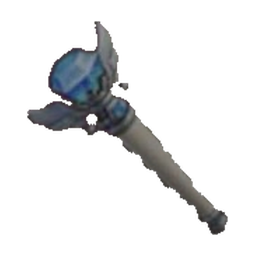
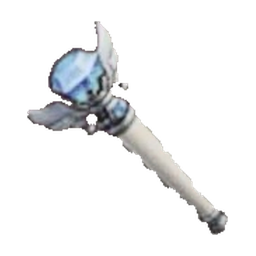
Restore legendary ring band and brighten all six P4 items to white

Changed region(s): [[0.0938, 0.0625, 0.9062, 0.9062]]

diff --git a/src/app.js b/src/app.js
@@ -22,7 +22,7 @@ D.gearLevels=GEAR_VISUAL_LEVELS.map(level=>level.label);
 const state={from:D.furnace.findIndex(x=>x.id==="FC6"),to:D.furnace.findIndex(x=>x.id==="FC8"),scope:"furnace",gear:{},selectedGear:null,troop:"infantry",techStart:"steel",techTarget:"helios",t12:[0,0,0,0]};
 // Proportions mesurées sur la capture P5 ; limites alpha des 48 assets.
 const GEAR_ART_TARGETS={"headgear":[0.65816,0.77436,0.46173,0.48974],"watch":[0.78462,0.71795,0.49487,0.50769],"coat":[0.75,0.7641,0.49235,0.5],"pants":[0.76531,0.7602,0.4949,0.49745],"ring":[0.70256,0.77551,0.51026,0.5],"cane":[0.69388,0.70918,0.5102,0.50765]};
-const GEAR_ART_BOUNDS={"generated/cane":[512,512,33,23,476,462],"generated/coat":[512,512,21,43,491,469],"generated/helmet":[512,512,72,21,440,491],"generated/pants":[512,512,69,63,434,422],"generated/ring":[512,512,101,115,388,409],"generated/watch":[1254,1254,64,49,1173,1190],"epique/cane":[256,256,20,23,236,232],"epique/coat":[256,256,20,28,236,227],"epique/headgear":[256,256,40,20,216,236],"epique/pants":[256,256,31,20,224,236],"epique/ring":[256,256,21,20,235,236],"epique/watch":[256,256,20,20,236,236],"legendaire/cane":[256,256,21,20,235,236],"legendaire/coat":[256,256,20,24,236,231],"legendaire/headgear":[256,256,47,20,208,236],"legendaire/pants":[256,256,20,24,236,231],"legendaire/ring":[256,256,20,21,236,235],"legendaire/watch":[256,256,20,26,236,230],"mythique/cane":[256,256,20,21,236,234],"mythique/coat":[256,256,20,27,236,229],"mythique/headgear":[256,256,47,20,208,236],"mythique/pants":[256,256,22,20,234,236],"mythique/ring":[256,256,20,20,236,235],"mythique/watch":[256,256,20,22,236,233],"p4/cane":[256,256,27,21,228,235],"p4/coat":[256,256,23,21,233,235],"p4/headgear":[256,256,34,21,221,235],"p4/pants":[256,256,28,21,228,235],"p4/ring":[256,256,26,21,230,235],"p4/watch":[256,256,21,25,235,230],"p5-p6/cane":[256,256,23,21,232,235],"p5-p6/coat":[256,256,22,21,233,235],"p5-p6/headgear":[256,256,36,21,219,235],"p5-p6/pants":[256,256,21,21,235,234],"p5-p6/ring":[256,256,31,21,224,235],"p5-p6/watch":[256,256,21,30,235,226],"peu-commun/cane":[256,256,22,20,233,236],"peu-commun/coat":[256,256,20,24,236,231],"peu-commun/headgear":[256,256,32,20,223,236],"peu-commun/pants":[256,256,33,20,223,236],"peu-commun/ring":[256,256,20,24,236,231],"peu-commun/watch":[256,256,22,20,234,236],"rare/cane":[256,256,20,24,236,232],"rare/coat":[256,256,20,24,236,232],"rare/headgear":[256,256,31,20,224,236],"rare/pants":[256,256,23,20,232,236],"rare/ring":[256,256,20,26,236,229],"rare/watch":[256,256,20,27,236,229]};
+const GEAR_ART_BOUNDS={"generated/cane":[512,512,33,23,476,462],"generated/coat":[512,512,21,43,491,469],"generated/helmet":[512,512,72,21,440,491],"generated/pants":[512,512,69,63,434,422],"generated/ring":[512,512,101,115,388,409],"generated/watch":[1254,1254,64,49,1173,1190],"epique/cane":[256,256,20,23,236,232],"epique/coat":[256,256,20,28,236,227],"epique/headgear":[256,256,40,20,216,236],"epique/pants":[256,256,31,20,224,236],"epique/ring":[256,256,21,20,235,236],"epique/watch":[256,256,20,20,236,236],"legendaire/cane":[256,256,21,20,235,236],"legendaire/coat":[256,256,20,24,236,231],"legendaire/headgear":[256,256,47,20,208,236],"legendaire/pants":[256,256,20,24,236,231],"legendaire/ring":[256,256,24,22,233,231],"legendaire/watch":[256,256,20,26,236,230],"mythique/cane":[256,256,20,21,236,234],"mythique/coat":[256,256,20,27,236,229],"mythique/headgear":[256,256,47,20,208,236],"mythique/pants":[256,256,22,20,234,236],"mythique/ring":[256,256,20,20,236,235],"mythique/watch":[256,256,20,22,236,233],"p4/cane":[256,256,27,21,228,235],"p4/coat":[256,256,23,21,233,235],"p4/headgear":[256,256,34,21,221,235],"p4/pants":[256,256,28,21,228,235],"p4/ring":[256,256,26,21,230,235],"p4/watch":[256,256,21,25,235,230],"p5-p6/cane":[256,256,23,21,232,235],"p5-p6/coat":[256,256,22,21,233,235],"p5-p6/headgear":[256,256,36,21,219,235],"p5-p6/pants":[256,256,21,21,235,234],"p5-p6/ring":[256,256,31,21,224,235],"p5-p6/watch":[256,256,21,30,235,226],"peu-commun/cane":[256,256,22,20,233,236],"peu-commun/coat":[256,256,20,24,236,231],"peu-commun/headgear":[256,256,32,20,223,236],"peu-commun/pants":[256,256,33,20,223,236],"peu-commun/ring":[256,256,20,24,236,231],"peu-commun/watch":[256,256,22,20,234,236],"rare/cane":[256,256,20,24,236,232],"rare/coat":[256,256,20,24,236,232],"rare/headgear":[256,256,31,20,224,236],"rare/pants":[256,256,23,20,232,236],"rare/ring":[256,256,20,26,236,229],"rare/watch":[256,256,20,27,236,229]};
 function gearArtworkStyle(key,slot){
   const bounds=GEAR_ART_BOUNDS[key],target=GEAR_ART_TARGETS[slot];
   if(!bounds||!target)return '';
@@ -32,7 +32,7 @@ function gearArtworkStyle(key,slot){
 }
 function gearSkin(g){return `<img class="gear-skin-p6" style="${gearArtworkStyle('generated/'+g.id,g.id==='helmet'?'headgear':g.id)}" src="assets/generated/gear-p6/${g.id}.png" alt="">`}
 function gearVisualData(level){return GEAR_VISUAL_LEVELS[Math.max(0,Math.min(GEAR_VISUAL_LEVELS.length-1,level))]}
-function gearLevelSkin(g,level){const visual=gearVisualData(level),slot=g.id==='helmet'?'headgear':g.id;return `<img class="gear-level-skin gear-visual-${visual.skin}" style="${gearArtworkStyle(visual.skin+'/'+slot,slot)}" src="assets/visuals/gear-levels/${visual.skin}/${slot}.png?v=${['p4','p5-p6'].includes(visual.skin)?'20261006-p4-p5-cutouts':'5'}" alt="">`}
+function gearLevelSkin(g,level){const visual=gearVisualData(level),slot=g.id==='helmet'?'headgear':g.id;return `<img class="gear-level-skin gear-visual-${visual.skin}" style="${gearArtworkStyle(visual.skin+'/'+slot,slot)}" src="assets/visuals/gear-levels/${visual.skin}/${slot}.png?v=${visual.skin==='p4'||(visual.skin==='legendaire'&&slot==='ring')?'20261006-p4-white-ring-repair':visual.skin==='p5-p6'?'20261006-p4-p5-cutouts':'5'}" alt="">`}
 const $=(s,p=document)=>p.querySelector(s),$$=(s,p=document)=>[...p.querySelectorAll(s)],fmt=n=>new Intl.NumberFormat("fr-FR",{maximumFractionDigits:1}).format(n);
 function go(id){$$('.view').forEach(v=>v.classList.toggle('active',v.id===id));scrollTo({top:0,behavior:'smooth'})}$$('[data-go]').forEach(b=>b.onclick=()=>go(b.dataset.go));
 function sumSteps(arr,a,b){const out={fc:0,rfc:0,food:0,wood:0,coal:0,iron:0,time:0};arr.slice(a+1,b+1).forEach(x=>Object.keys(out).forEach(k=>out[k]+=x[k]||0));return out}

diff --git a/index.html b/index.html
@@ -81,6 +81,6 @@
   <div hidden><div id="gearLeft"></div><div id="gearRight"></div></div>
   <dialog id="gearDialog"><form method="dialog"><button class="dialog-close" value="cancel" aria-label="Fermer">×</button><p class="eyebrow" id="dialogType"></p><h2 id="dialogTitle"></h2><p class="profile-dialog-note">Renseigne uniquement l’état actuel de ton Chef.</p><div class="dialog-compare"><label class="current-setting"><small>ÉQUIPEMENT ACTUEL</small><span class="gear-preview" id="gearFromPreview"></span><select id="gearFrom"></select></label><span class="dialog-arrow">→</span><label class="target-setting"><small>OBJECTIF</small><span class="gear-preview target" id="gearToPreview"></span><select id="gearTo"></select></label></div><h3>3 talismans actuels</h3><div id="charmInputs" class="charm-inputs"></div><button class="primary" value="save" id="saveGear">Appliquer</button></form></dialog>
   <dialog id="levelPicker"><form method="dialog"><button class="dialog-close" value="cancel" aria-label="Fermer">×</button><p class="eyebrow" id="pickerEyebrow">NIVEAU</p><h2 id="pickerTitle">Choisir un niveau</h2><div class="level-picker-grid" id="levelPickerGrid"></div></form></dialog>
-  <script src="src/data.js"></script><script src="src/app.js?v=20261006-gear-art-occupancy"></script>
+  <script src="src/data.js"></script><script src="src/app.js?v=20261006-p4-white-ring-repair"></script>
 </body>
 </html>
